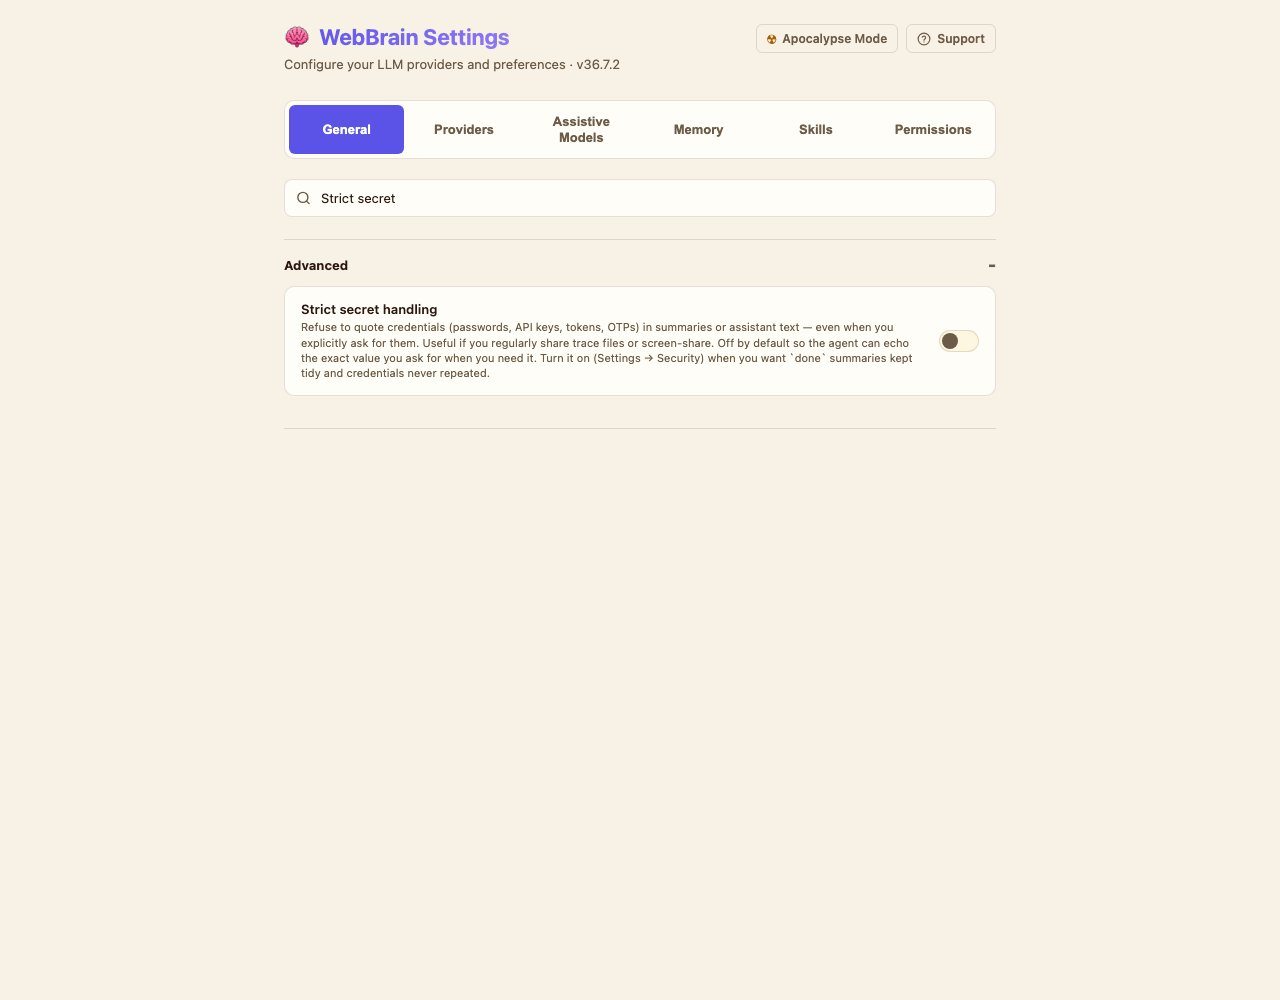
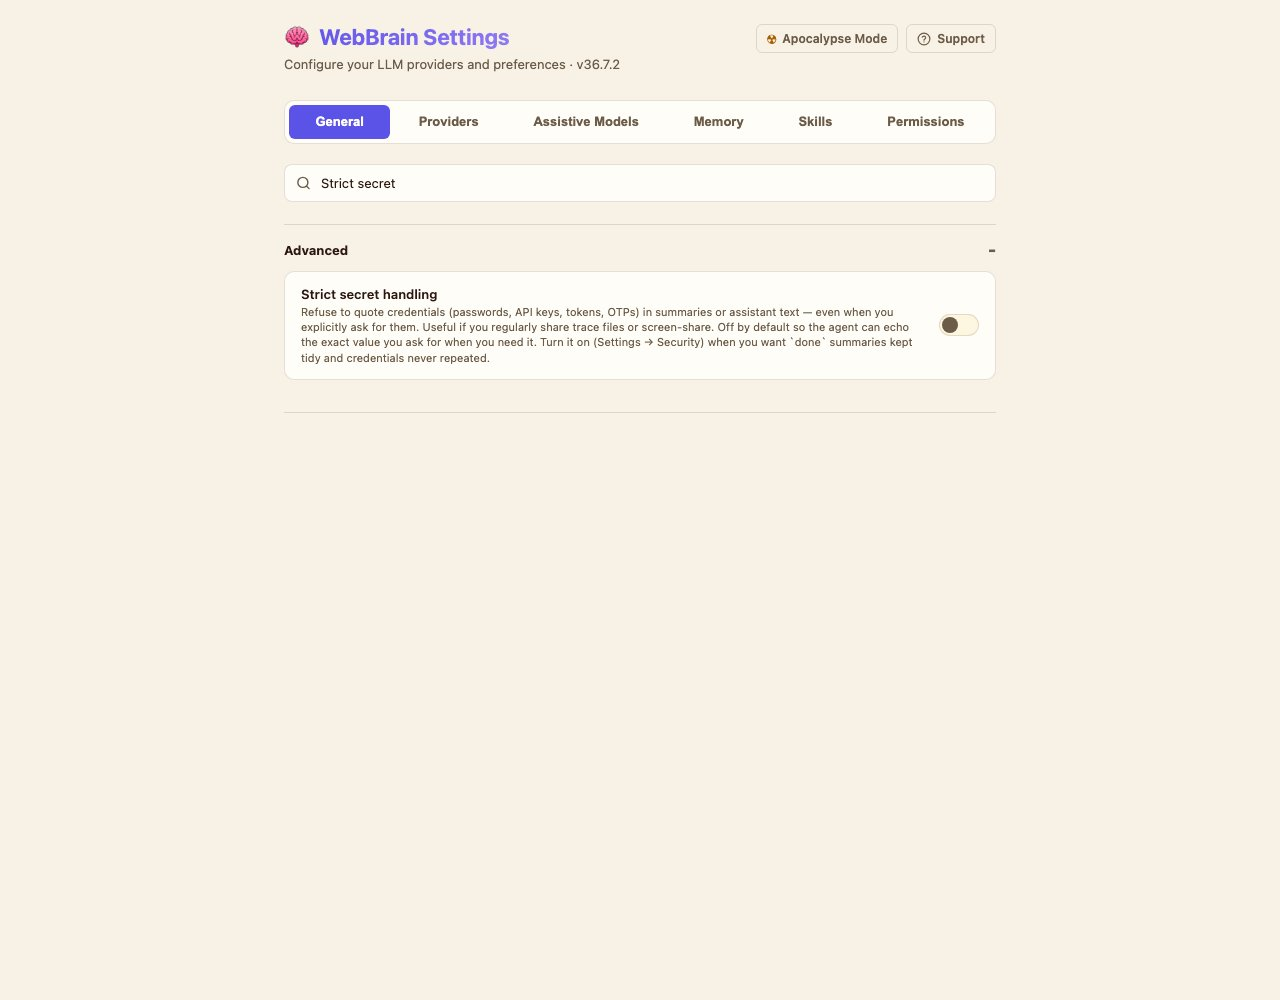
Keep settings tab labels on a single line

diff --git a/src/chrome/src/ui/settings.html b/src/chrome/src/ui/settings.html
@@ -129,10 +129,10 @@
     }
     h2:first-of-type { margin-top: 0; }
 
-    /* Tab bar — sticky so it survives long provider lists. */
+    /* Keep translated labels on one line; narrow windows scroll the tab bar. */
     .tabs {
-      display: grid;
-      grid-template-columns: repeat(6, minmax(0, 1fr));
+      display: flex;
+      overflow-x: auto;
       gap: 2px;
       margin: 4px 0 20px 0;
       padding: 4px;
@@ -144,6 +144,7 @@
       z-index: 10;
     }
     .tab-btn {
+      flex: 1 0 auto;
       min-width: 0;
       background: transparent;
       color: var(--text2);
@@ -155,7 +156,7 @@
       line-height: 1.2;
       cursor: pointer;
       transition: background 0.15s, color 0.15s;
-      overflow-wrap: anywhere;
+      white-space: nowrap;
     }
     .tab-btn:hover { color: var(--text); }
     .tab-btn.active {
@@ -167,10 +168,6 @@
     @media (max-width: 600px) {
       .header-row { flex-direction: column; gap: 10px; }
       .header-actions { justify-content: flex-start; }
-      .tabs {
-        grid-template-columns: repeat(6, minmax(90px, 1fr));
-        overflow-x: auto;
-      }
     }
 
     .tab-panel { display: none; }

diff --git a/src/firefox/src/ui/settings.html b/src/firefox/src/ui/settings.html
@@ -129,10 +129,10 @@
     }
     h2:first-of-type { margin-top: 0; }
 
-    /* Tab bar — sticky so it survives long provider lists. */
+    /* Keep translated labels on one line; narrow windows scroll the tab bar. */
     .tabs {
-      display: grid;
-      grid-template-columns: repeat(6, minmax(0, 1fr));
+      display: flex;
+      overflow-x: auto;
       gap: 2px;
       margin: 4px 0 20px 0;
       padding: 4px;
@@ -144,6 +144,7 @@
       z-index: 10;
     }
     .tab-btn {
+      flex: 1 0 auto;
       min-width: 0;
       background: transparent;
       color: var(--text2);
@@ -155,7 +156,7 @@
       line-height: 1.2;
       cursor: pointer;
       transition: background 0.15s, color 0.15s;
-      overflow-wrap: anywhere;
+      white-space: nowrap;
     }
     .tab-btn:hover { color: var(--text); }
     .tab-btn.active {
@@ -167,10 +168,6 @@
     @media (max-width: 600px) {
       .header-row { flex-direction: column; gap: 10px; }
       .header-actions { justify-content: flex-start; }
-      .tabs {
-        grid-template-columns: repeat(6, minmax(90px, 1fr));
-        overflow-x: auto;
-      }
     }
 
     .tab-panel { display: none; }
